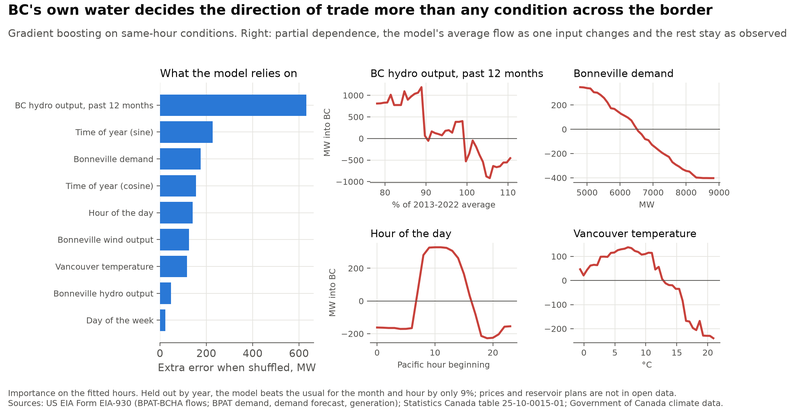
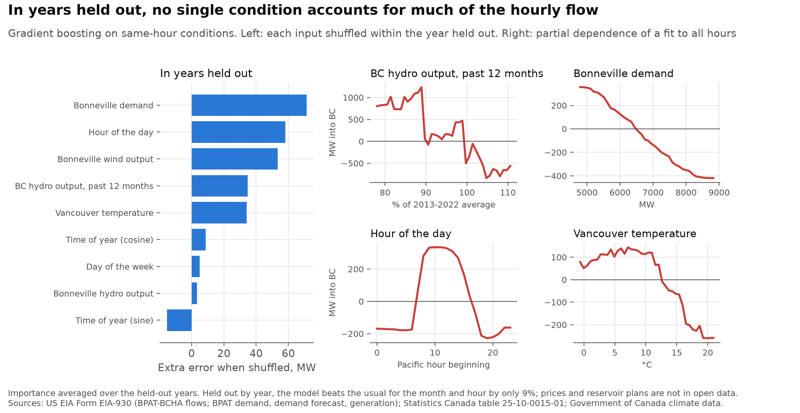
Correct the electricity page's water, residual and forecast claims

diff --git a/bc-electricity-balance.html b/bc-electricity-balance.html
@@ -77,7 +77,7 @@
         <tr><td><a href="#water">How much hydro did it cost?</a></td><td>Regression on reservoir inflows, leave-one-year-out</td><td>Low inflows explain 7.1 TWh (90%: 5.4-8.7) of the 11.3 TWh fall in hydro output in 2023.</td></tr>
         <tr><td><a href="#supply">Where did the power come from?</a></td><td>Accounting identity, weather normalisation</td><td>Imports. Net imports rose 14.3 TWh while fossil-fuel generation fell.</td></tr>
         <tr><td><a href="#patterns">How does trade move hour by hour?</a></td><td>k-means, principal components, Markov switching</td><td>Three kinds of trading day; a heavy-import regime from September 2022 to August 2025.</td></tr>
-        <tr><td><a href="#forecast-flow">Can the hourly flow be forecast?</a></td><td>Ridge and gradient boosting, expanding-window tests, partial dependence</td><td>A day ahead, 8% better than repeating yesterday; BC's own water matters most.</td></tr>
+        <tr><td><a href="#forecast-flow">Can the hourly flow be forecast?</a></td><td>Ridge and gradient boosting, expanding-window tests, partial dependence</td><td>A day ahead, 8% better than repeating yesterday; in years held out, no single condition stands out.</td></tr>
         <tr><td><a href="#demand">How well can demand be forecast?</a></td><td>Seasonal ARIMA, conformal intervals, Kalman filter</td><td>Off by 3.1-3.8% on average one to six months out, with ranges that hold as often as stated.</td></tr>
       </tbody>
     </table>
@@ -99,7 +99,7 @@
   <section class="section" id="water">
     <h2>2. How much hydro output did low water cost?</h2>
     <ul class="tags"><li>Inflows to Kinbasket and Williston lakes</li><li>Least squares, Newey-West errors</li><li>Leave-one-year-out validation</li><li>Counterfactual with 90% range</li></ul>
-    <p>Inflows to BC Hydro's two largest reservoirs ran at 79% of normal in 2023 and 84% in 2024. A model of annual hydro output on this year's and last year's inflows and demand explains two thirds of the variation since 1980 and misses a held-out year by 3.8 TWh on average. With normal inflows it puts 2023's output 7.1 TWh higher, most of the 11.3 TWh fall. The other 4.7 TWh is output the inflows alone would not have cut, consistent with BC Hydro holding water back and buying instead, though the data cannot show it.</p>
+    <p>Inflows to BC Hydro's two largest reservoirs ran at 79% of normal in 2023 and 84% in 2024. A model of annual hydro output on this year's and last year's inflows and demand explains two thirds of the variation since 1980 and misses a held-out year by 3.8 TWh on average. With normal inflows it puts 2023's output 7.1 TWh higher, most of the 11.3 TWh fall. That leaves 4.2 TWh that low inflows do not account for. Separately, actual output was 4.7 TWh below what the model predicts at 2023's own inflows and demand, not much more than its usual miss. That would fit BC Hydro holding water back and buying instead, though the data cannot show it.</p>
     <figure>
       <img src="img/balance-water-to-power.png" srcset="img/balance-water-to-power-800.png 800w, img/balance-water-to-power.png 1600w" sizes="(max-width: 860px) calc(100vw - 2.5rem), 816px" alt="Left: BC's annual hydro output since 1980 against the model's held-out predictions. Right: in 2023 and 2024, the fall in hydro output, the part explained by low inflows, and the rise in net imports." width="1600" height="747" loading="lazy" />
     </figure>
@@ -152,20 +152,20 @@
   <section class="section" id="forecast-flow">
     <h2>5. Can the hourly flow be forecast?</h2>
     <ul class="tags"><li>scikit-learn</li><li>Ridge regression</li><li>Gradient boosting</li><li>Expanding-window tests</li><li>Permutation importance</li><li>Partial dependence</li></ul>
-    <p>Forecasting each midnight for the next 24 hours, a linear model misses by 425 MW on average in years it was not trained on: 8% better than repeating yesterday (461 MW) and far better than the usual for the month and hour (984 MW). Gradient boosting does no better (449 MW), and in 2023 nothing beat repeating yesterday, because the drought took the flows outside anything in the training years.</p>
+    <p>Forecasting each midnight for the next 24 hours, a linear model misses by 424 MW on average in years it was not trained on: 8% better than repeating yesterday (461 MW) and far better than the usual for the month and hour (984 MW). Gradient boosting does no better (443 MW), and in 2023 nothing beat repeating yesterday, because the drought took the flows outside anything in the training years.</p>
     <figure>
       <img src="img/balance-flow-forecast.png" srcset="img/balance-flow-forecast-800.png 800w, img/balance-flow-forecast.png 1600w" sizes="(max-width: 860px) calc(100vw - 2.5rem), 816px" alt="Left: the last two weeks of hourly flow with the day-ahead forecast and yesterday's flow. Right: each model's average error by year since 2021." width="1600" height="773" loading="lazy" />
     </figure>
-    <p>Permutation importance and partial dependence show that a model of same-hour conditions leans most on BC's own water: at 78% of normal hydro output it expects about 810 MW into BC, at 111% about 460 MW out. Higher demand across the border pulls power out of BC. These conditions alone improve on the usual for the month and hour by only 9%, because trading also turns on prices and reservoir plans that are not in open data.</p>
+    <p>Tested on each year after fitting to the others, a model of same-hour conditions has no input that stands out: shuffling one within the year held out adds 71 MW to its 878 MW error for Bonneville's demand, 58 MW for the hour, 53 MW for Bonneville's wind and 35 MW for BC's hydro output, which ranks first only in 2023. That test says little about water's effect from one year to the next, because BC's hydro output moves mostly between years. By partial dependence, a fit to all hours expects about 800 MW into BC at 78% of normal hydro output and about 560 MW out at 111%, and higher demand across the border pulls power out of BC; that has not been tested on years held out. These conditions alone improve on the usual for the month and hour by only 9%, because trading also turns on prices and reservoir plans that are not in open data.</p>
     <figure>
-      <img src="img/balance-flow-drivers.png" srcset="img/balance-flow-drivers-800.png 800w, img/balance-flow-drivers.png 1600w" sizes="(max-width: 860px) calc(100vw - 2.5rem), 816px" alt="Permutation importance led by BC's hydro output over the past year, and partial dependence curves for BC's hydro, Bonneville demand, hour of the day and Vancouver temperature." width="1600" height="827" loading="lazy" />
+      <img src="img/balance-flow-drivers.png" srcset="img/balance-flow-drivers-800.png 800w, img/balance-flow-drivers.png 1600w" sizes="(max-width: 860px) calc(100vw - 2.5rem), 816px" alt="Permutation importance on years held out, led by Bonneville demand, the hour and Bonneville wind, with BC's hydro output fourth, and partial dependence curves for BC's hydro, Bonneville demand, hour of the day and Vancouver temperature." width="1600" height="827" loading="lazy" />
     </figure>
   </section>
 
   <section class="section" id="demand">
     <h2>6. How much is weather, and how well can demand be forecast?</h2>
     <ul class="tags"><li>Seasonal ARIMA with degree days</li><li>Exponential smoothing</li><li>Conformal prediction intervals</li><li>Newey-West ranges</li><li>Kalman filter</li></ul>
-    <p>Tested from every month since 2014 with only earlier data, a seasonal ARIMA with heating and cooling degree days forecasts monthly demand with an average error of 3.1% a month ahead and 3.8% six months ahead, beating exponential smoothing and the same month last year. Its own 80% ranges held only 66% of outcomes, because they treat the weather ahead as known; ranges set from its past errors held 81%.</p>
+    <p>Tested from every month since 2014 with only earlier data, a seasonal ARIMA with heating and cooling degree days forecasts monthly demand with an average error of 3.1% a month ahead and 3.8% six months ahead, beating exponential smoothing and the same month last year. Its own 80% ranges held only 66% of outcomes, because they treat the weather ahead as known; ranges set from its past errors held 82%.</p>
     <figure>
       <img src="img/balance-demand-forecast.png" srcset="img/balance-demand-forecast-800.png 800w, img/balance-demand-forecast.png 1600w" sizes="(max-width: 860px) calc(100vw - 2.5rem), 816px" alt="Left: BC's monthly demand over three years and the forecast for the next six months with 80% and 95% ranges. Right: average forecast error by months ahead for three methods." width="1600" height="747" loading="lazy" />
     </figure>
@@ -185,6 +185,7 @@
       <li>Hourly flows cover the BC Hydro-Bonneville connection only; prices, Alberta trade and BC's hourly demand are not in open data, which caps how well the flow can be explained.</li>
       <li>The day-ahead forecast uses the day's actual Vancouver temperature in place of a forecast, so it is slightly optimistic.</li>
       <li>Partial dependence shows associations in the data, not what would happen if one input changed alone.</li>
+      <li>Permutation importance within a year held out can understate slow inputs such as BC's hydro output, because the shuffle swaps only that year's values.</li>
       <li>Statistics Canada's 2015 demand figure is about 4 TWh below the years either side and is kept as reported.</li>
       <li>Site C does not yet appear in the capacity data, so the 2024-2025 hydro capacity factors may be overstated.</li>
     </ul>
